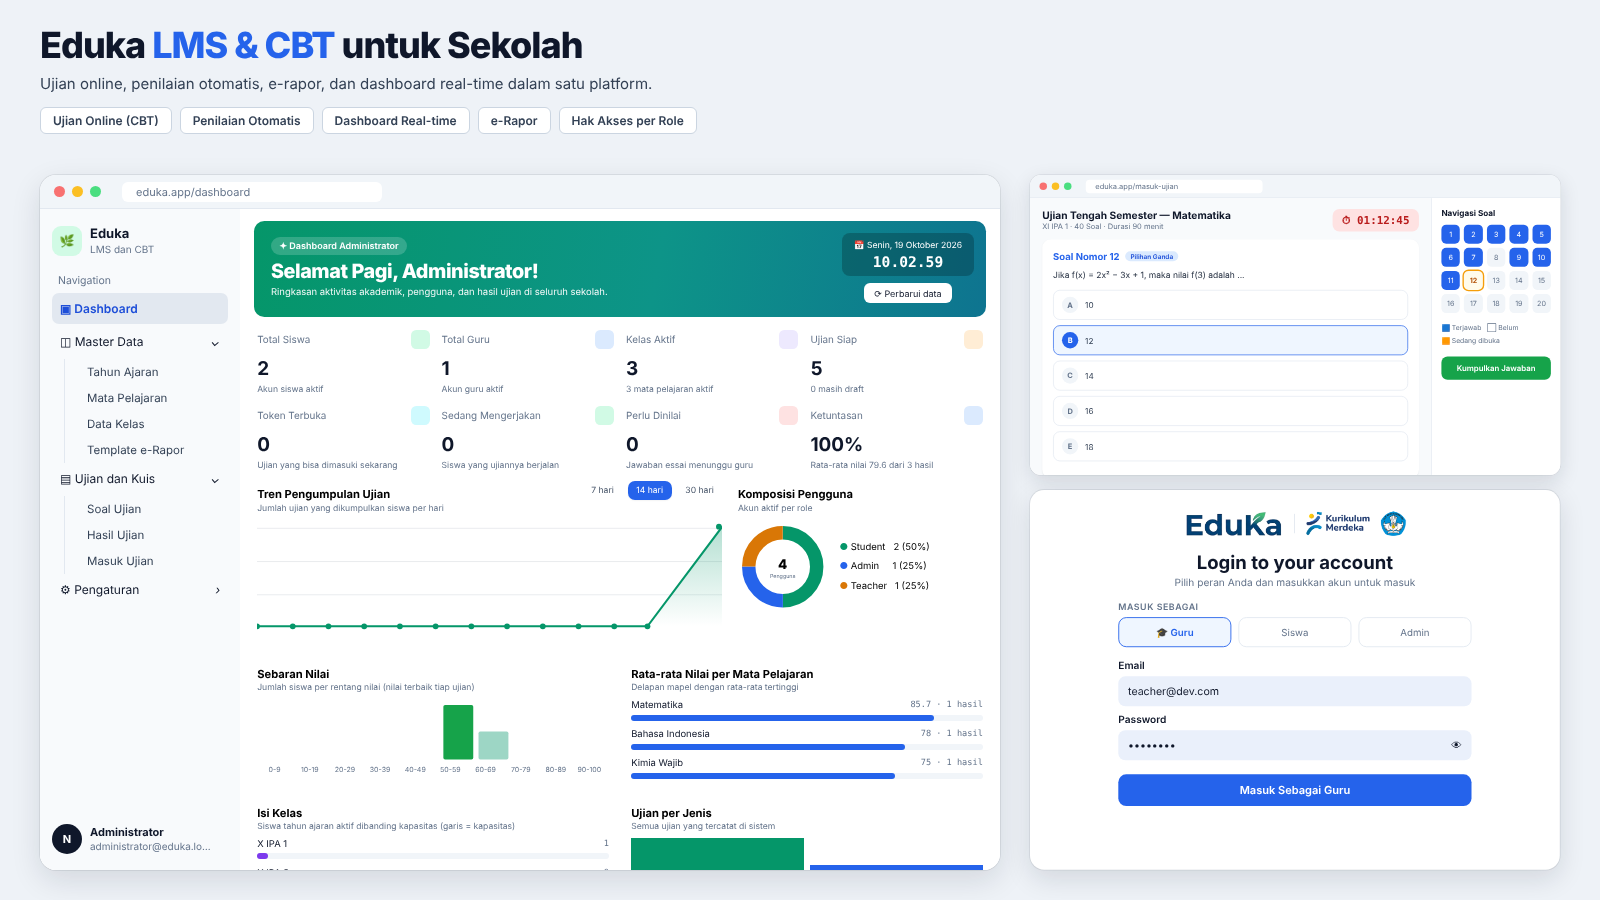
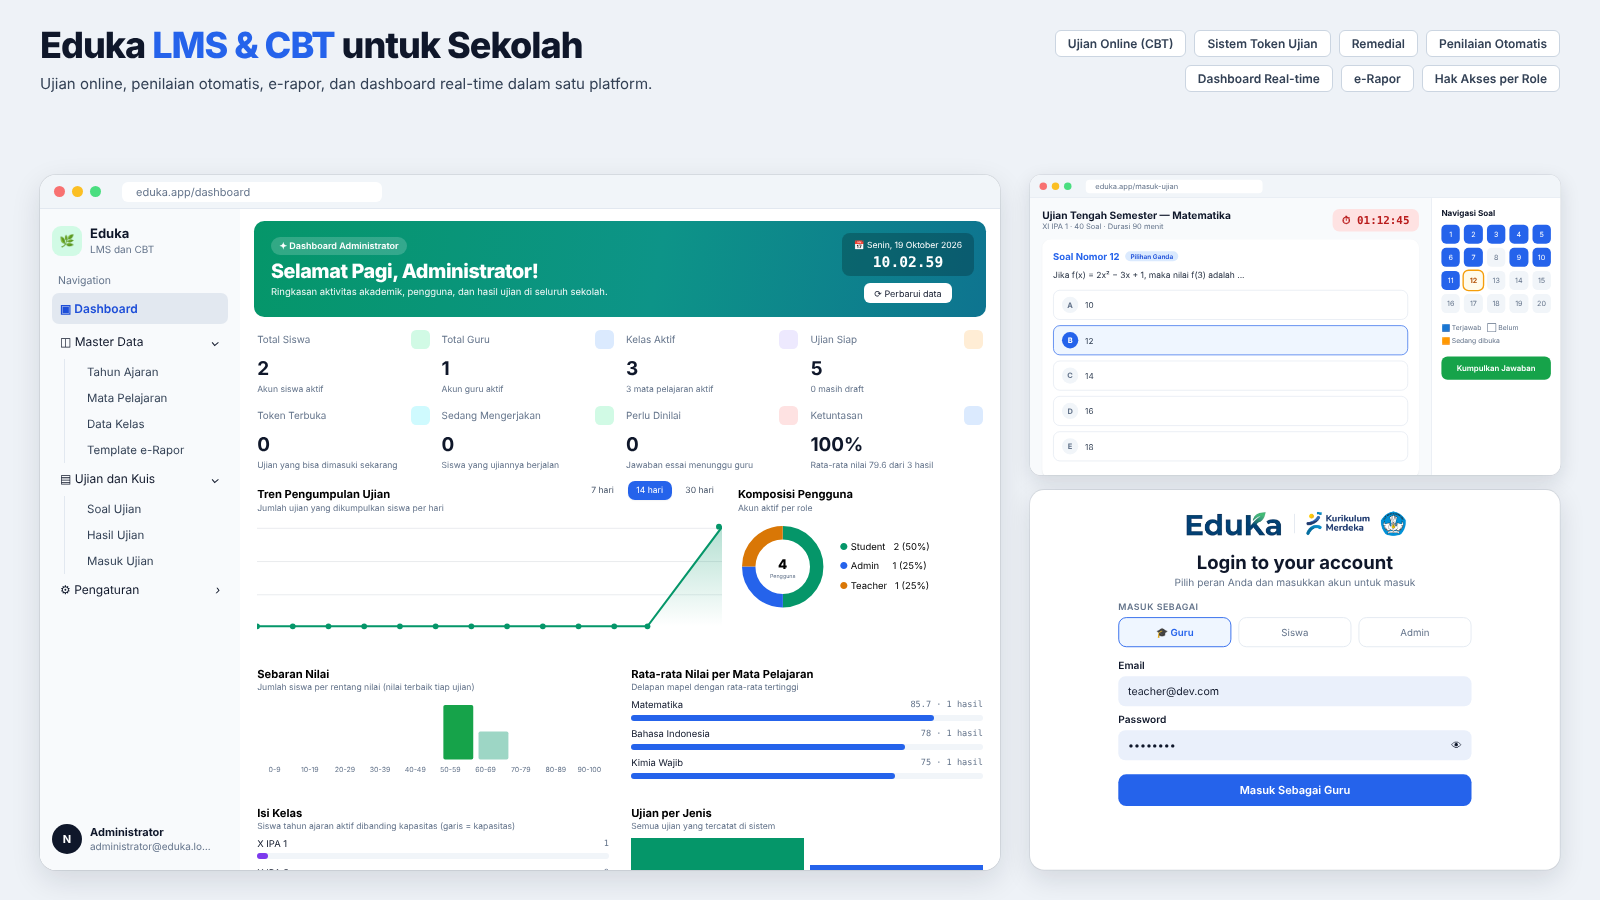
Thumbnail: badge pindah ke kanan atas, tambah token ujian dan remedial
Claude-Session: https://claude.ai/code/session_01ATwfgHp4Vpqeq6htkAiMvw

Changed region(s): [[0.6562, 0.0311, 0.9688, 0.0933], [0.0312, 0.1244, 0.4375, 0.1556]]

diff --git a/docs/thumbnail/thumbnail.html b/docs/thumbnail/thumbnail.html
@@ -67,11 +67,12 @@ table{width:100%;border-collapse:collapse;font-size:10.5px}td,th{padding:5px 4px
 .hero{position:absolute;left:40px;top:26px}
 .hero h1{font-size:36px;font-weight:800;letter-spacing:-1px;color:#0f172a;line-height:1.1}.hero h1 span{color:#2563eb}
 .hero p{font-size:15px;color:#334155;margin-top:8px}
-.tags{display:flex;gap:8px;margin-top:14px}.tags span{background:#fff;border:1px solid #cbd5e1;padding:5px 12px;border-radius:6px;font-size:12px;font-weight:600;color:#334155}
+.tags{position:absolute;right:40px;top:30px;width:600px;display:flex;flex-wrap:wrap;justify-content:flex-end;gap:8px}.tags span{background:#fff;border:1px solid #cbd5e1;padding:5px 12px;border-radius:6px;font-size:12px;font-weight:600;color:#334155}
 </style>
 
 <div class="hero"><div><h1>Eduka <span>LMS &amp; CBT</span> untuk Sekolah</h1><p>Ujian online, penilaian otomatis, e-rapor, dan dashboard real-time dalam satu platform.</p>
-<div class="tags"><span>Ujian Online (CBT)</span><span>Penilaian Otomatis</span><span>Dashboard Real-time</span><span>e-Rapor</span><span>Hak Akses per Role</span></div></div></div>
+</div></div>
+<div class="tags"><span>Ujian Online (CBT)</span><span>Sistem Token Ujian</span><span>Remedial</span><span>Penilaian Otomatis</span><span>Dashboard Real-time</span><span>e-Rapor</span><span>Hak Akses per Role</span></div>
 <!-- DASHBOARD -->
 <div class="win" style="left:40px;top:175px;width:960px;height:695px">
  <div class="bar"><i style="background:#f87171"></i><i style="background:#fbbf24"></i><i style="background:#4ade80"></i><span>eduka.app/dashboard</span></div>
